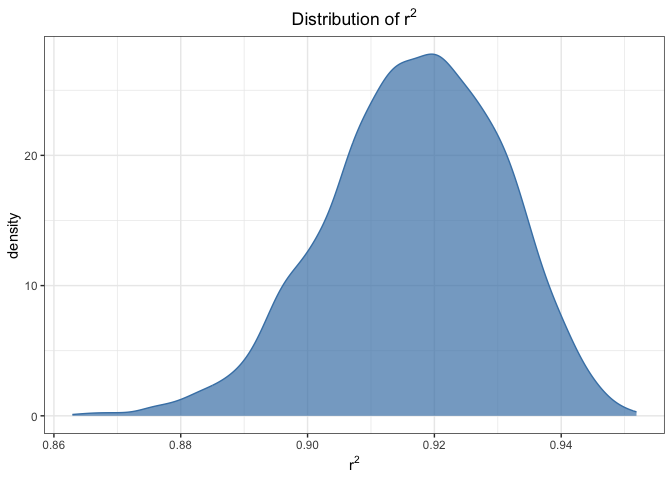
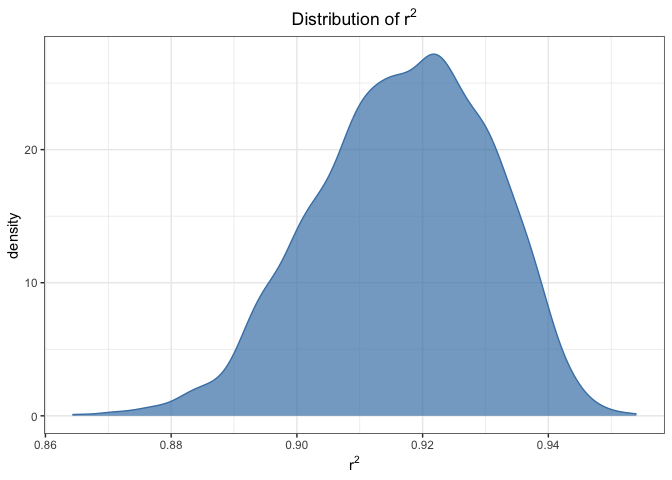
change cross validation times

diff --git a/p8105_hw6_pt2632.md b/p8105_hw6_pt2632.md
@@ -210,10 +210,10 @@ ci = function(data){
 }
 ```
 
-The 95% confidence interval for $r^2$ is (0.888, 0.941).
+The 95% confidence interval for $r^2$ is (0.889, 0.94).
 
-The 95% confidence interval for $\log(\beta_1*\beta_2)$ is (-9.316,
--4.593).
+The 95% confidence interval for $\log(\beta_1*\beta_2)$ is (-9.041,
+-4.535).
 
 ## Problem 3
 
@@ -329,7 +329,7 @@ model_eval = function(train_df, test_df){
 ```
 
 ``` r
-times = 50
+times = 100
 mse_df = birth_weight |>
   modelr::crossv_mc(n = times) |>
   mutate(train = map(train, as.tibble), 

diff --git a/README.md b/README.md
@@ -1,8 +1,2 @@
 # P8105_HW6
 Homework for Data Science I Course
-
-### Questions
-1. How should we deal with data with `victim_sex` variable as `Unknown` when fitting a logistic regression model?
-2. How to handle negative output when calculating prod of coefficients in logistic regression model?
-3. How to plot residual vs fitted data plot?
-4. cross validation times?
